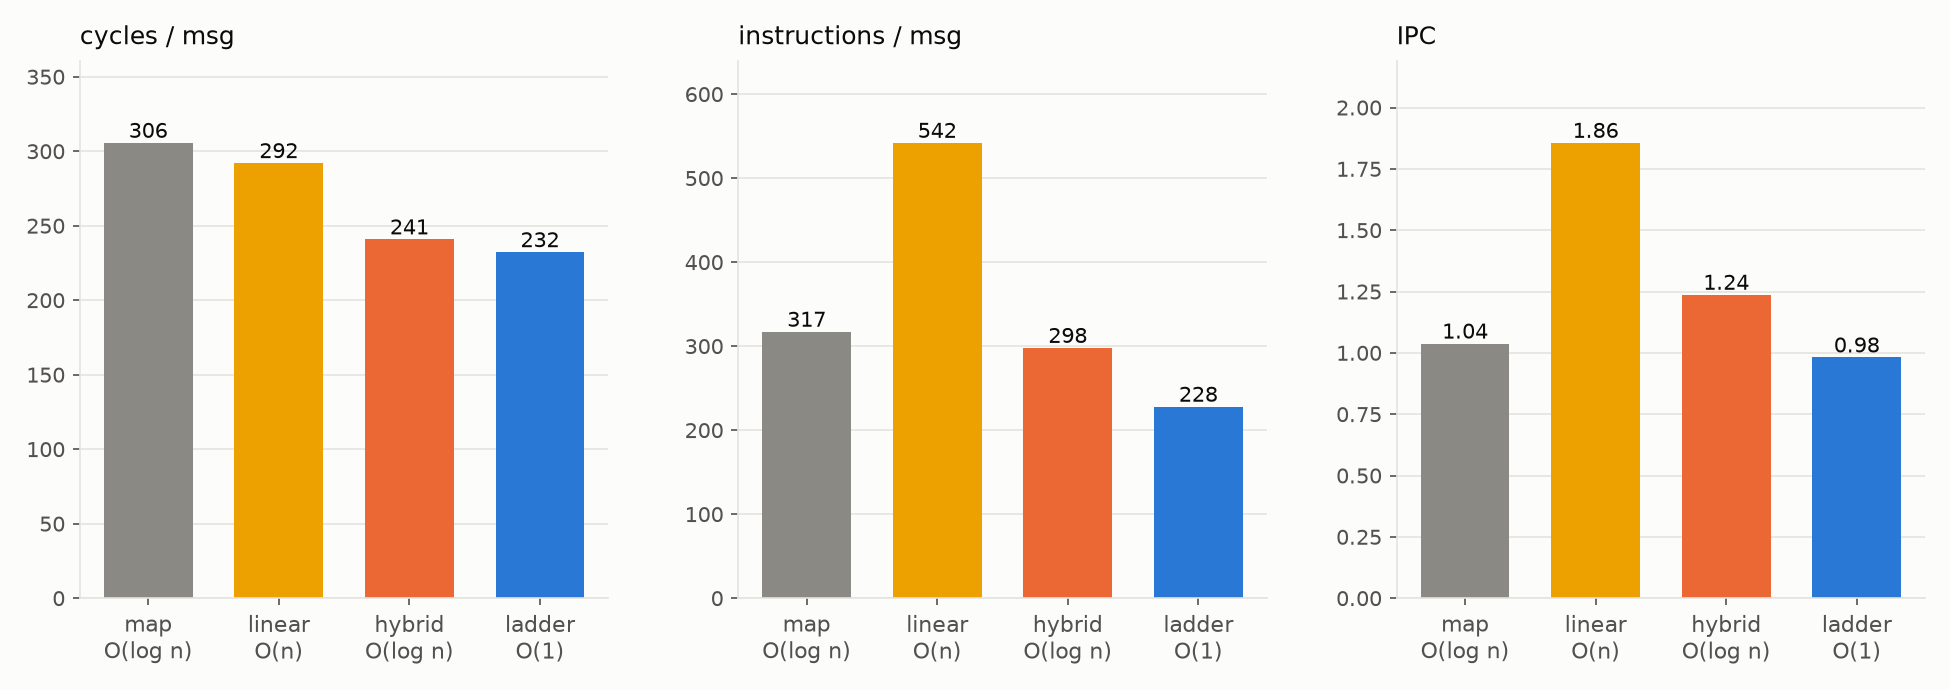
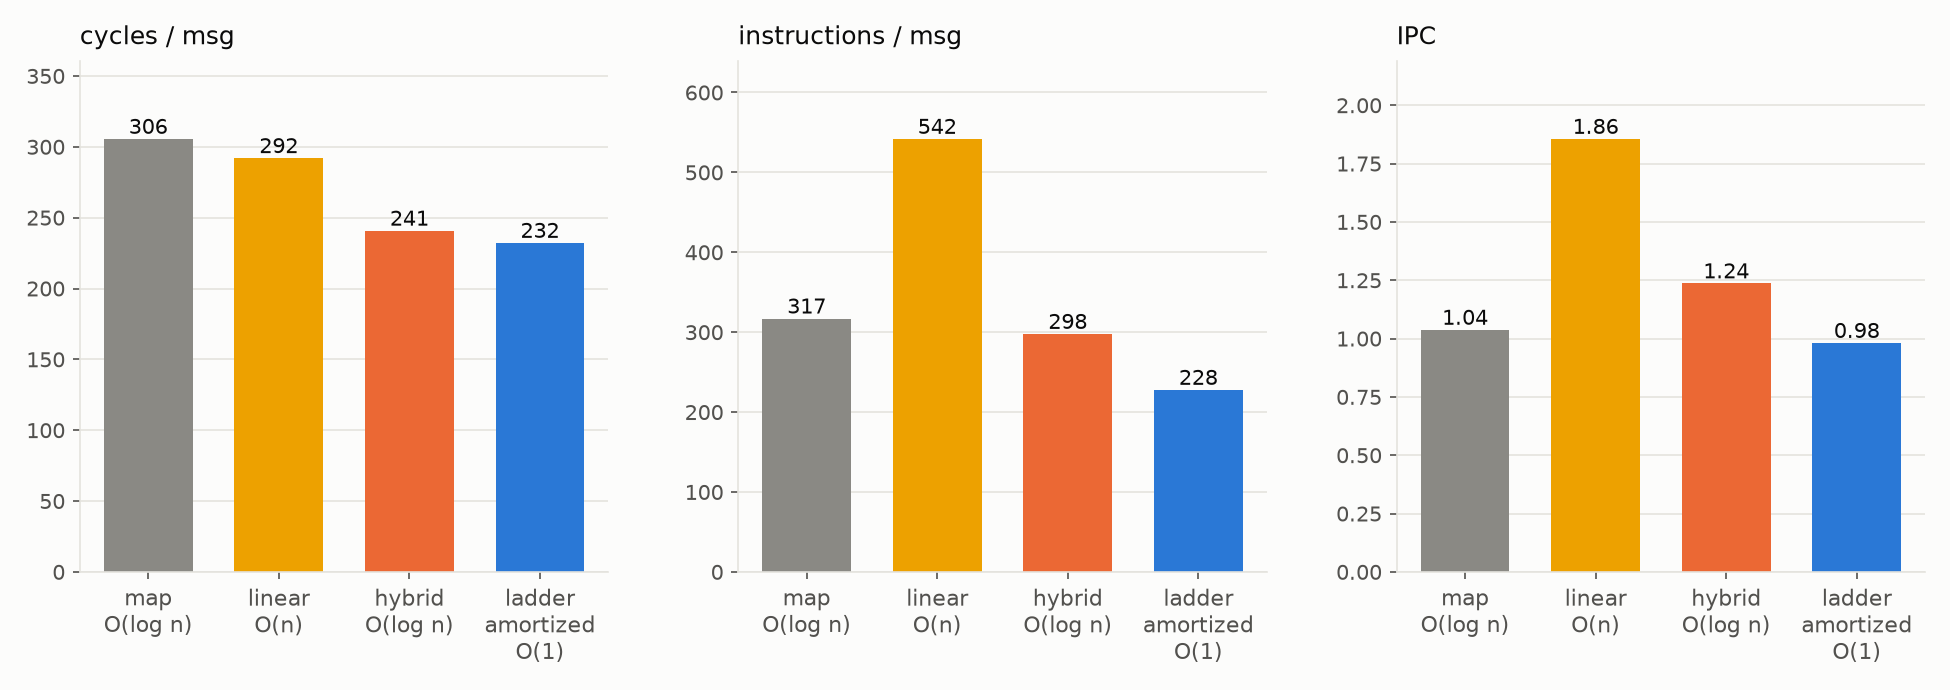
concepts added for order

diff --git a/Core/Source/Book/InnerBook/MarketMaker/AggregateSecurityBook.cpp b/Core/Source/Book/InnerBook/MarketMaker/AggregateSecurityBook.cpp
@@ -2,14 +2,17 @@
 
 #include <iostream>
 
-template <typename Levels, typename Orders>
-void AggregateSecurityBook<Levels, Orders>::add_resting(uint64_t id, Side side, Price price, uint32_t quantity)
+template <LevelPolicy Levels, OrderIndex Orders>
+void AggregateSecurityBook<Levels, Orders>::add_order(uint64_t order_reference_number,
+                                                      Side side,
+                                                      Price price,
+                                                      uint32_t quantity)
 {
     on_side(side, [&](auto& levels) { levels.add(price, quantity); });
-    orders_.insert(id, RestingOrder{price, ++next_sequence_, quantity, side});
+    orders_.insert(order_reference_number, RestingOrder{price, ++next_sequence_, quantity, side});
 }
 
-template <typename Levels, typename Orders>
+template <LevelPolicy Levels, OrderIndex Orders>
 void AggregateSecurityBook<Levels, Orders>::remove_resting(typename Orders::Handle handle)
 {
     const RestingOrder& order = orders_.get(handle);
@@ -17,7 +20,7 @@ void AggregateSecurityBook<Levels, Orders>::remove_resting(typename Orders::Hand
     orders_.erase(handle);
 }
 
-template <typename Levels, typename Orders>
+template <LevelPolicy Levels, OrderIndex Orders>
 void AggregateSecurityBook<Levels, Orders>::delete_order(uint64_t order_reference_number)
 {
     const auto handle = orders_.find(order_reference_number);
@@ -29,7 +32,7 @@ void AggregateSecurityBook<Levels, Orders>::delete_order(uint64_t order_referenc
     remove_resting(handle);
 }
 
-template <typename Levels, typename Orders>
+template <LevelPolicy Levels, OrderIndex Orders>
 void AggregateSecurityBook<Levels, Orders>::reduce_order_quantity(uint64_t id, uint32_t shares, const char* action)
 {
     const auto handle = orders_.find(id);
@@ -56,19 +59,19 @@ void AggregateSecurityBook<Levels, Orders>::reduce_order_quantity(uint64_t id, u
     order.quantity = new_quantity;
 }
 
-template <typename Levels, typename Orders>
+template <LevelPolicy Levels, OrderIndex Orders>
 void AggregateSecurityBook<Levels, Orders>::execute_order(uint64_t order_reference_number, uint32_t executed_shares)
 {
     reduce_order_quantity(order_reference_number, executed_shares, "execute");
 }
 
-template <typename Levels, typename Orders>
+template <LevelPolicy Levels, OrderIndex Orders>
 void AggregateSecurityBook<Levels, Orders>::cancel_order(uint64_t order_reference_number, uint32_t cancelled_shares)
 {
     reduce_order_quantity(order_reference_number, cancelled_shares, "cancel");
 }
 
-template <typename Levels, typename Orders>
+template <LevelPolicy Levels, OrderIndex Orders>
 void AggregateSecurityBook<Levels, Orders>::replace_order(uint64_t old_order_reference_number,
                                                           uint64_t new_order_reference_number,
                                                           Price new_price,
@@ -82,10 +85,10 @@ void AggregateSecurityBook<Levels, Orders>::replace_order(uint64_t old_order_ref
     }
     const Side side = orders_.get(handle).side;
     remove_resting(handle);
-    add_resting(new_order_reference_number, side, new_price, new_shares);
+    add_order(new_order_reference_number, side, new_price, new_shares);
 }
 
-template <typename Levels, typename Orders>
+template <LevelPolicy Levels, OrderIndex Orders>
 void AggregateSecurityBook<Levels, Orders>::modify_order(uint64_t order_reference_number, Price new_price, uint32_t new_shares)
 {
     const auto handle = orders_.find(order_reference_number);
@@ -121,7 +124,7 @@ void AggregateSecurityBook<Levels, Orders>::modify_order(uint64_t order_referenc
     order.sequence = ++next_sequence_;
 }
 
-template <typename Levels, typename Orders>
+template <LevelPolicy Levels, OrderIndex Orders>
 void AggregateSecurityBook<Levels, Orders>::clear()
 {
     orders_.clear();

diff --git a/Core/Source/Book/InnerBook/MarketMaker/AggregateSecurityBook.h b/Core/Source/Book/InnerBook/MarketMaker/AggregateSecurityBook.h
@@ -7,6 +7,7 @@
 #include <vector>
 
 #include "Book/InnerBook/LevelSummary.h"
+#include "Book/InnerBook/MarketMaker/AggregateConcepts.h"
 #include "Book/InnerBook/MarketMaker/Levels/MapLevels.h"
 #include "Book/InnerBook/MarketMaker/Levels/PriceLadder.h"
 #include "Book/InnerBook/MarketMaker/Levels/SortedLevels.h"
@@ -32,11 +33,11 @@ struct LadderLevels {
     using Side = PriceLadder<Better>;
 };
 
-template <typename Levels, typename Orders>
+template <LevelPolicy Levels, OrderIndex Orders>
 class AggregateSecurityBook {
 public:
-    using BidLevels = typename Levels::template Side<std::greater<>>;
-    using AskLevels = typename Levels::template Side<std::less<>>;
+    using BidLevels = BidSide<Levels>;
+    using AskLevels = AskSide<Levels>;
 
     explicit AggregateSecurityBook(InstrumentId stock_locate = 0) : stock_locate_(stock_locate) {}
 
@@ -52,10 +53,7 @@ public:
         ask_levels_.set_tick(tick);
     }
 
-    void add_order(uint64_t order_reference_number, Side side, Price price, uint32_t quantity)
-    {
-        add_resting(order_reference_number, side, price, quantity);
-    }
+    void add_order(uint64_t order_reference_number, Side side, Price price, uint32_t quantity);
     void delete_order(uint64_t order_reference_number);
     void execute_order(uint64_t order_reference_number, uint32_t executed_shares);
     void cancel_order(uint64_t order_reference_number, uint32_t cancelled_shares);
@@ -91,7 +89,6 @@ private:
         }
     }
 
-    void add_resting(uint64_t id, Side side, Price price, uint32_t quantity);
     void remove_resting(typename Orders::Handle handle);
     void reduce_order_quantity(uint64_t id, uint32_t shares, const char* action);
 

diff --git a/Core/Source/Book/InnerBook/MarketMaker/AggregateConcepts.h b/Core/Source/Book/InnerBook/MarketMaker/AggregateConcepts.h
@@ -1,0 +1,41 @@
+#pragma once
+
+#include <concepts>
+#include <cstddef>
+#include <cstdint>
+#include <functional>
+#include <optional>
+#include <vector>
+
+#include "Book/InnerBook/LevelSummary.h"
+#include "Book/InnerBook/MarketMaker/OrderIndex.h"
+#include "Book/InnerBook/Order.h"
+
+template <typename T>
+concept LevelSide = std::default_initializable<T> &&
+                    requires(T side, const T& view, Price price, uint32_t quantity, int64_t change, std::size_t levels) {
+                        side.add(price, quantity);
+                        side.remove(price, quantity);
+                        side.adjust(price, change);
+                        side.clear();
+                        { view.size() } -> std::convertible_to<std::size_t>;
+                        { view.empty() } -> std::convertible_to<bool>;
+                        { view.best() } -> std::same_as<std::optional<Price>>;
+                        { view.depth(levels) } -> std::same_as<std::vector<LevelSummary>>;
+                    };
+
+template <typename Levels>
+using BidSide = typename Levels::template Side<std::greater<>>;
+
+template <typename Levels>
+using AskSide = typename Levels::template Side<std::less<>>;
+
+template <typename Levels>
+concept LevelPolicy = LevelSide<BidSide<Levels>> && LevelSide<AskSide<Levels>>;
+
+template <typename Index>
+concept OrderIndex = requires(Index index, uint64_t id, RestingOrder order) {
+    index.insert(id, order);
+    index.get(index.find(id));
+    index.erase(index.find(id));
+};

diff --git a/Core/Source/Book/InnerBook/Exchange/LazyQueueBook.h b/Core/Source/Book/InnerBook/Exchange/LazyQueueBook.h
@@ -195,7 +195,13 @@ public:
         }
     }
 
-    void add_order(uint64_t id, Side side, Price price, uint32_t quantity) { add_resting(id, side, price, quantity); }
+    void add_order(uint64_t id, Side side, Price price, uint32_t quantity)
+    {
+        on_side(side, [&](auto& levels) { levels.add(price, quantity); });
+        const uint64_t sequence = ++next_sequence_;
+        orders_.insert(id, RestingOrder{price, sequence, quantity, side});
+        enqueue(side, price, sequence, id);
+    }
 
     void delete_order(uint64_t id)
     {
@@ -215,7 +221,7 @@ public:
         }
         const Side side = orders_.get(handle).side;
         remove_resting(handle);
-        add_resting(new_id, side, price, quantity);
+        add_order(new_id, side, price, quantity);
     }
 
     void modify_order(uint64_t id, Price new_price, uint32_t new_shares)
@@ -366,14 +372,6 @@ private:
             ++queue->head;
         }
         return {typename Orders::Handle{}, 0};
-    }
-
-    void add_resting(uint64_t id, Side side, Price price, uint32_t quantity)
-    {
-        on_side(side, [&](auto& levels) { levels.add(price, quantity); });
-        const uint64_t sequence = ++next_sequence_;
-        orders_.insert(id, RestingOrder{price, sequence, quantity, side});
-        enqueue(side, price, sequence, id);
     }
 
     void remove_resting(typename Orders::Handle handle)
